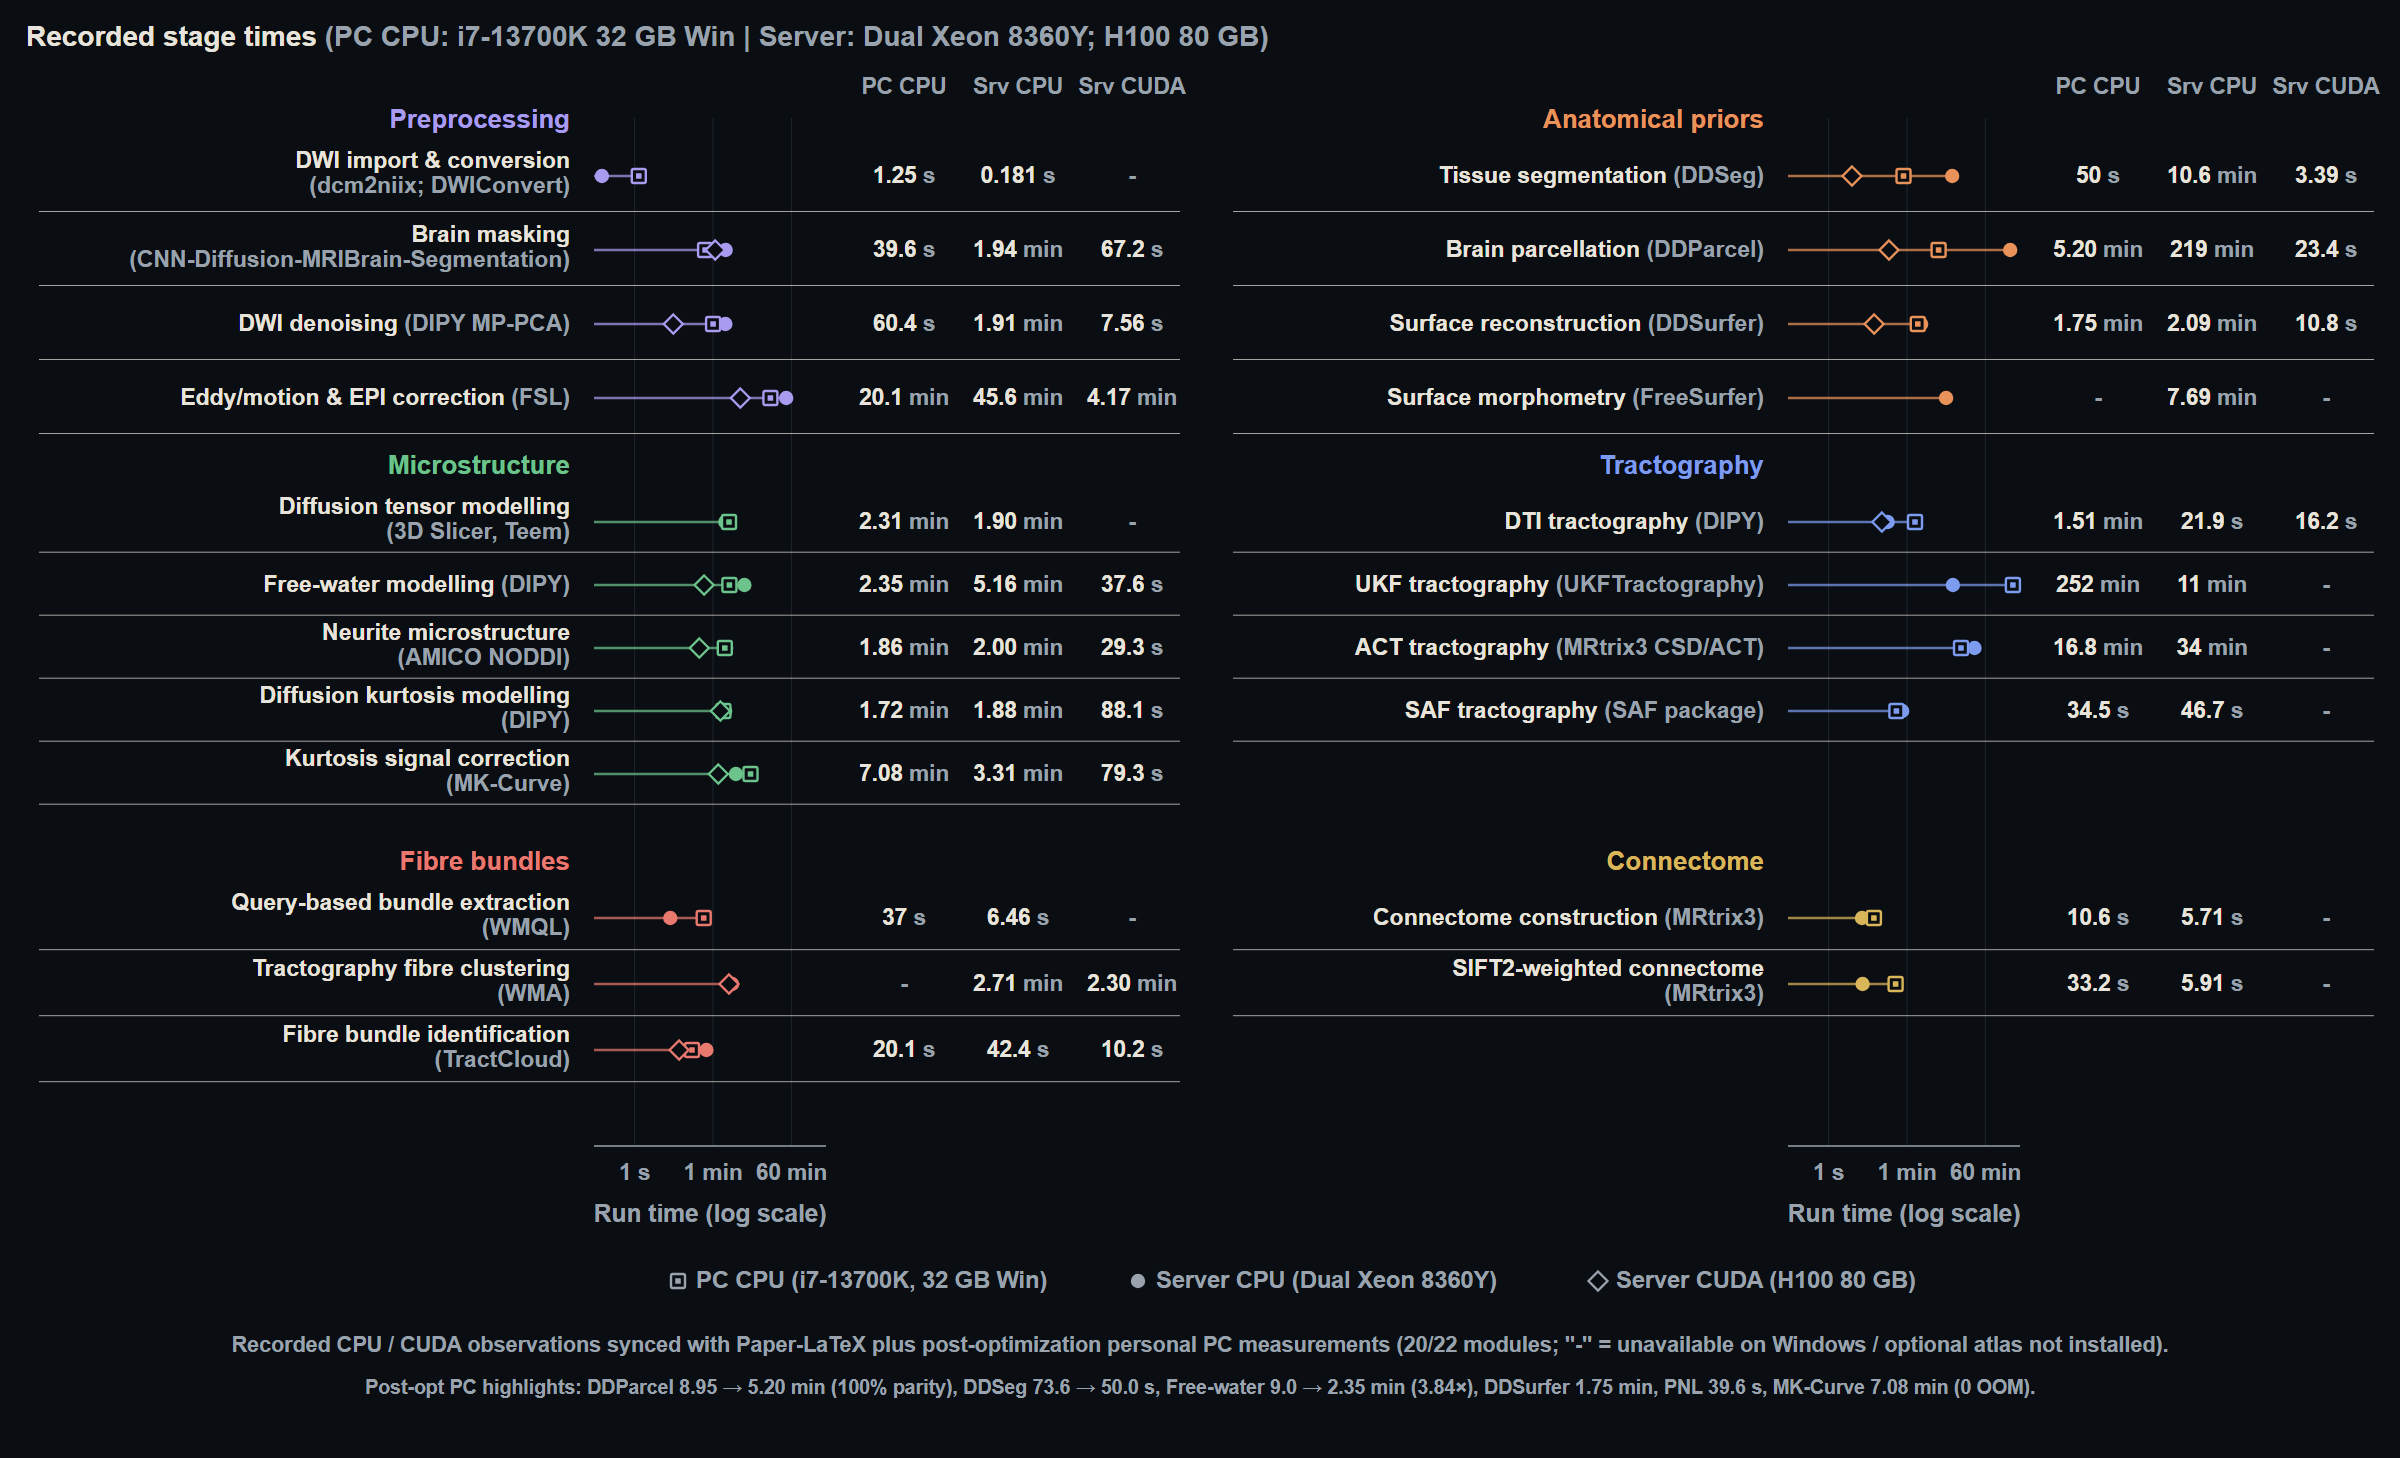
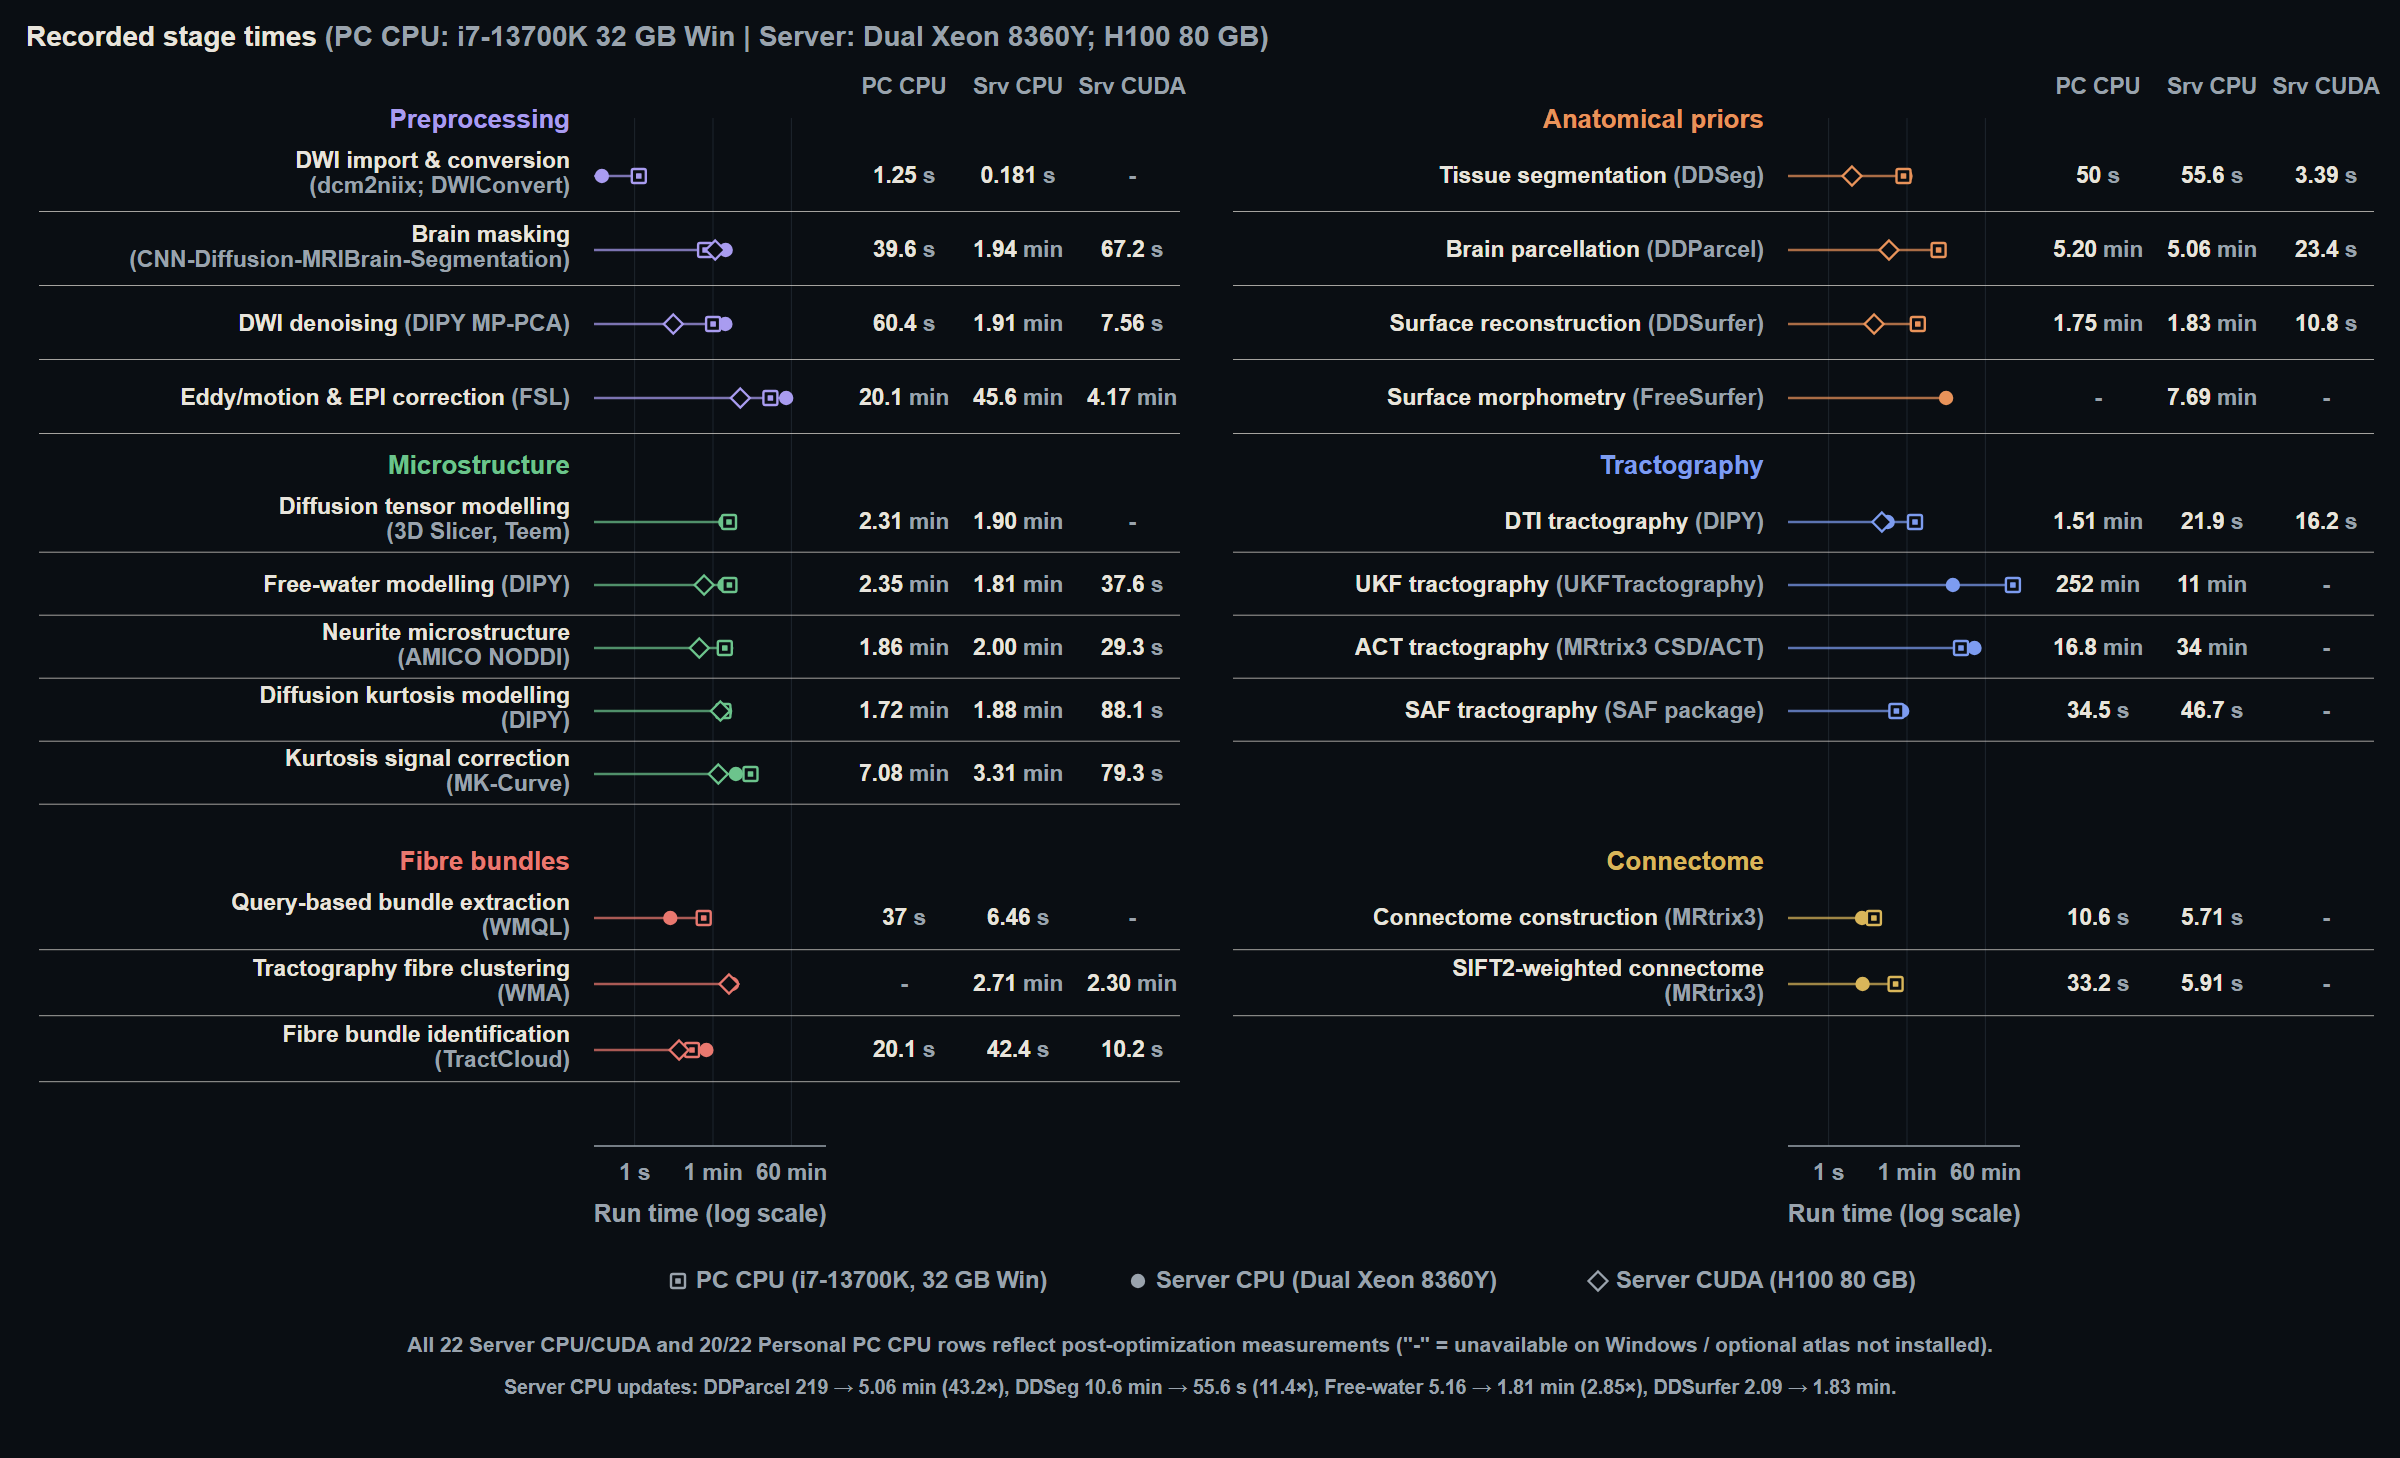
docs(site): update Server CPU benchmarks (DDParcel 5.06 min, DDSeg 55.6 s, FW 1.81 min, DDSurfer 1.83 min) and refine Get started pure-black styling

diff --git a/docs/site/assets/css/site.css b/docs/site/assets/css/site.css
@@ -958,8 +958,8 @@ figcaption {
   height: 40px;
   display: grid;
   place-items: center;
-  border: 1px solid color-mix(in srgb, var(--route-accent) 50%, transparent);
-  background: color-mix(in srgb, var(--route-accent) 8%, transparent);
+  border: 2px solid color-mix(in srgb, var(--route-accent) 55%, transparent);
+  background: #000000;
   color: var(--route-accent);
   font-family: var(--f-mono);
   font-size: 19px;
@@ -989,19 +989,20 @@ figcaption {
   width: 38px; height: 38px;
   display: grid;
   place-items: center;
-  border: 1px solid var(--line-2);
+  border: 2px solid rgba(255, 255, 255, .34);
   border-radius: 10px;
   font-family: var(--f-mono);
   font-size: 15px;
+  font-weight: 600;
   color: var(--text);
-  background: var(--panel);
+  background: #000000;
 }
 .start-step::after {
   content: "";
   position: absolute;
-  left: 19px; top: 44px; bottom: 6px;
-  width: 1px;
-  background: var(--line);
+  left: 18px; top: 44px; bottom: 6px;
+  width: 2px;
+  background: rgba(255, 255, 255, .28);
 }
 .start-step:last-child::after { display: none; }
 .start-body { min-width: 0; }
@@ -1017,8 +1018,8 @@ figcaption {
   gap: 10px 18px;
   margin: 12px 0 4px;
   padding: 14px 16px;
-  background: rgba(255, 255, 255, .02);
-  border: 1px solid var(--line);
+  background: #000000;
+  border: 1.5px solid rgba(255, 255, 255, .20);
   border-radius: 10px;
 }
 .start-kv-list dt {
@@ -1042,8 +1043,8 @@ figcaption {
   padding: 1px 7px;
   margin: 1px 0;
   border-radius: 5px;
-  background: rgba(255, 255, 255, .06);
-  border: 1px solid var(--line-2);
+  background: #000000;
+  border: 1px solid rgba(255, 255, 255, .24);
   color: var(--ivory);
   font-size: .9em;
   line-height: 1.45;
@@ -1057,8 +1058,8 @@ figcaption {
 .pkg-pill {
   padding: 2px 8px;
   border-radius: 5px;
-  background: #080b10;
-  border: 1px solid var(--line-2);
+  background: #000000;
+  border: 1px solid rgba(255, 255, 255, .24);
   font-size: 13px;
 }
 .muted-inline {
@@ -1068,8 +1069,9 @@ figcaption {
 .start-callout {
   margin: 12px 0 4px;
   padding: 10px 14px;
+  border: 1px solid rgba(255, 255, 255, .18);
   border-left: 2px solid var(--blue);
-  background: rgba(91, 140, 255, .05);
+  background: #000000;
   border-radius: 0 8px 8px 0;
   font-size: 14.5px;
   line-height: 1.55;
@@ -1079,8 +1081,8 @@ figcaption {
   list-style: none;
   margin: 12px 0 10px;
   padding: 6px 16px;
-  background: rgba(255, 255, 255, .02);
-  border: 1px solid var(--line);
+  background: #000000;
+  border: 1.5px solid rgba(255, 255, 255, .20);
   border-radius: 10px;
 }
 .start-substep {
@@ -1089,7 +1091,7 @@ figcaption {
   gap: 12px;
   align-items: start;
   padding: 11px 0;
-  border-bottom: 1px solid var(--line);
+  border-bottom: 1px solid rgba(255, 255, 255, .14);
 }
 .start-substep:last-child { border-bottom: 0; }
 .start-substep-num {
@@ -1099,8 +1101,8 @@ figcaption {
   display: grid;
   place-items: center;
   border-radius: 6px;
-  border: 1px solid rgba(169, 191, 208, .38);
-  background: rgba(169, 191, 208, .08);
+  border: 1.5px solid rgba(169, 191, 208, .48);
+  background: #000000;
   color: #a9bfd0;
   font-family: var(--f-mono);
   font-size: 12.5px;
@@ -1125,9 +1127,13 @@ figcaption {
 .start-advanced {
   max-width: 58em;
   margin: 18px 0 8px;
-  border: 1px solid var(--line-2);
+  border: 1.5px solid rgba(255, 255, 255, .20);
   border-radius: 12px;
-  background: rgba(255, 255, 255, .02);
+  background: #000000;
+}
+#start pre,
+#start .code-block {
+  background: #000000;
 }
 .start-advanced-summary {
   display: flex;

diff --git a/docs/site/assets/css/installer-customizer.css b/docs/site/assets/css/installer-customizer.css
@@ -13,11 +13,11 @@
   --ic-success: #46d38a;
   --ic-btn-bg: #000000;
   --ic-btn-bg-hover: #121316;
-  --ic-btn-border: rgba(255, 255, 255, .18);
-  --ic-btn-border-hover: rgba(255, 255, 255, .48);
+  --ic-btn-border: rgba(255, 255, 255, .26);
+  --ic-btn-border-hover: rgba(255, 255, 255, .68);
   --ic-btn-shadow: none;
   --ic-btn-shadow-hover: 0 8px 20px rgba(0, 0, 0, .42);
-  --ic-detected-border: rgba(255, 255, 255, .38);
+  --ic-detected-border: rgba(255, 255, 255, .52);
   --ic-icon-ink: #ffffff;
   --ic-badge-bg: rgba(255, 255, 255, .10);
   --ic-badge-border: rgba(255, 255, 255, .20);
@@ -109,9 +109,9 @@
 .ic-dl-btn {
   position: relative;
   display: grid;
-  grid-template-columns: 28px minmax(0, 1fr) 22px;
+  grid-template-columns: 36px minmax(0, 1fr) 22px;
   align-items: center;
-  gap: 12px;
+  gap: 14px;
   width: 100%;
   min-width: 0;
   padding: 15px 16px;
@@ -119,7 +119,7 @@
   color: var(--ic-ink);
   background-color: var(--ic-btn-bg);
   background-image: none;
-  border: 1px solid var(--ic-btn-border);
+  border: 2px solid var(--ic-btn-border);
   border-radius: 10px;
   box-shadow: var(--ic-btn-shadow);
   font-family: var(--f-body);
@@ -171,8 +171,8 @@
   display: inline-flex;
   align-items: center;
   justify-content: center;
-  width: 28px;
-  height: 28px;
+  width: 36px;
+  height: 36px;
   background: transparent;
   border: 0;
   color: var(--ic-icon-ink);
@@ -181,8 +181,8 @@
 
 .ic-dl-icon svg {
   display: block;
-  width: 22px;
-  height: 22px;
+  width: 30px;
+  height: 30px;
 }
 
 /* ---------- OS label, badge & metadata ---------- */
